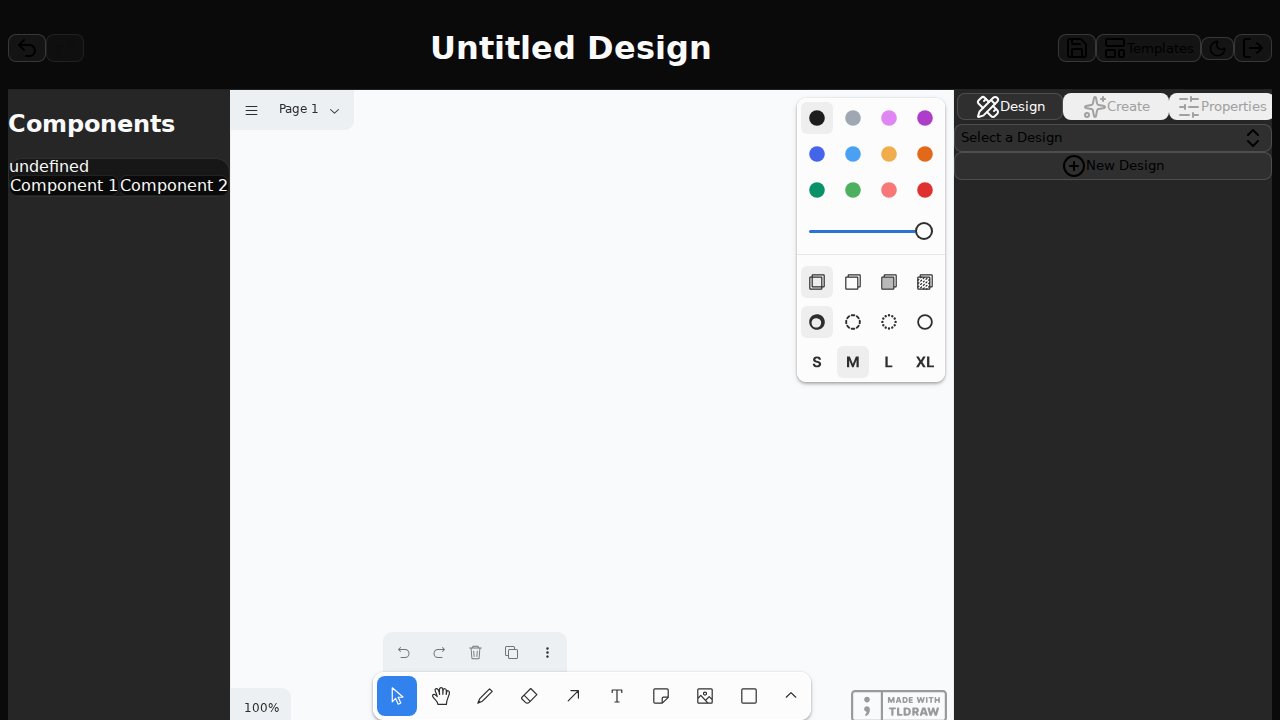
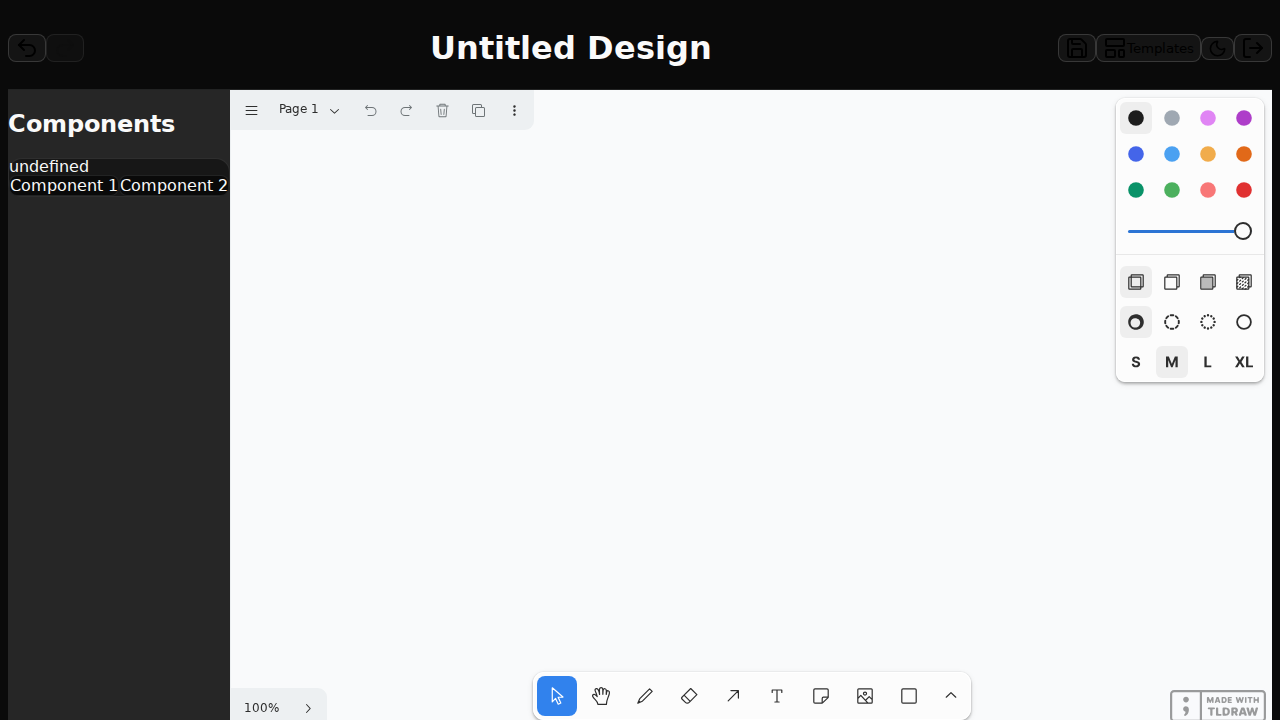
Refactor: Update sidebar and remove topbar actions
This commit refactors the right sidebar to use a tabbed interface with "Design", "Create", and "Properties" sections.

- The design management (switching and creating designs) has been moved from the top bar to the "Design" tab in the new sidebar.
- A new "Create" tab has been added with a textarea for creating designs from markdown descriptions.
- The top bar has been cleaned up to remove the design-related actions.
- The `shadcn/ui` sidebar, textarea components were added.
- The Socket.IO connection is now mocked in non-production environments to facilitate local development and testing.

diff --git a/src/components/RightSidebar.tsx b/src/components/RightSidebar.tsx
@@ -1,37 +1,25 @@
+import {
+  Sidebar,
+  SidebarContent,
+  SidebarGroup,
+  SidebarGroupLabel,
+} from '@/components/ui/sidebar';
 import { DesignPanel } from './DesignPanel';
 import { CreatePanel } from './CreatePanel';
-import { PropertiesPanel } from './PropertiesPanel';
-import { SlidersHorizontal, Sparkles, PencilRuler } from 'lucide-react';
-import { Tabs, TabsContent, TabsList, TabsTrigger } from '@/components/ui/tabs';
 
 export function RightSidebar() {
   return (
-    <aside className="w-96 bg-muted border-l">
-      <Tabs defaultValue="design" className="h-full flex flex-col">
-        <TabsList className="grid w-full grid-cols-3 rounded-none">
-          <TabsTrigger value="design">
-            <PencilRuler className="h-4 w-4 mr-2" />
-            Design
-          </TabsTrigger>
-          <TabsTrigger value="create">
-            <Sparkles className="h-4 w-4 mr-2" />
-            Create
-          </TabsTrigger>
-          <TabsTrigger value="properties">
-            <SlidersHorizontal className="h-4 w-4 mr-2" />
-            Properties
-          </TabsTrigger>
-        </TabsList>
-        <TabsContent value="design" className="flex-grow overflow-y-auto">
+    <Sidebar>
+      <SidebarContent>
+        <SidebarGroup>
+          <SidebarGroupLabel>Design</SidebarGroupLabel>
           <DesignPanel />
-        </TabsContent>
-        <TabsContent value="create" className="flex-grow overflow-y-auto">
+        </SidebarGroup>
+        <SidebarGroup>
+          <SidebarGroupLabel>Create</SidebarGroupLabel>
           <CreatePanel />
-        </TabsContent>
-        <TabsContent value="properties" className="flex-grow overflow-y-auto">
-          <PropertiesPanel />
-        </TabsContent>
-      </Tabs>
-    </aside>
+        </SidebarGroup>
+      </SidebarContent>
+    </Sidebar>
   );
 }
